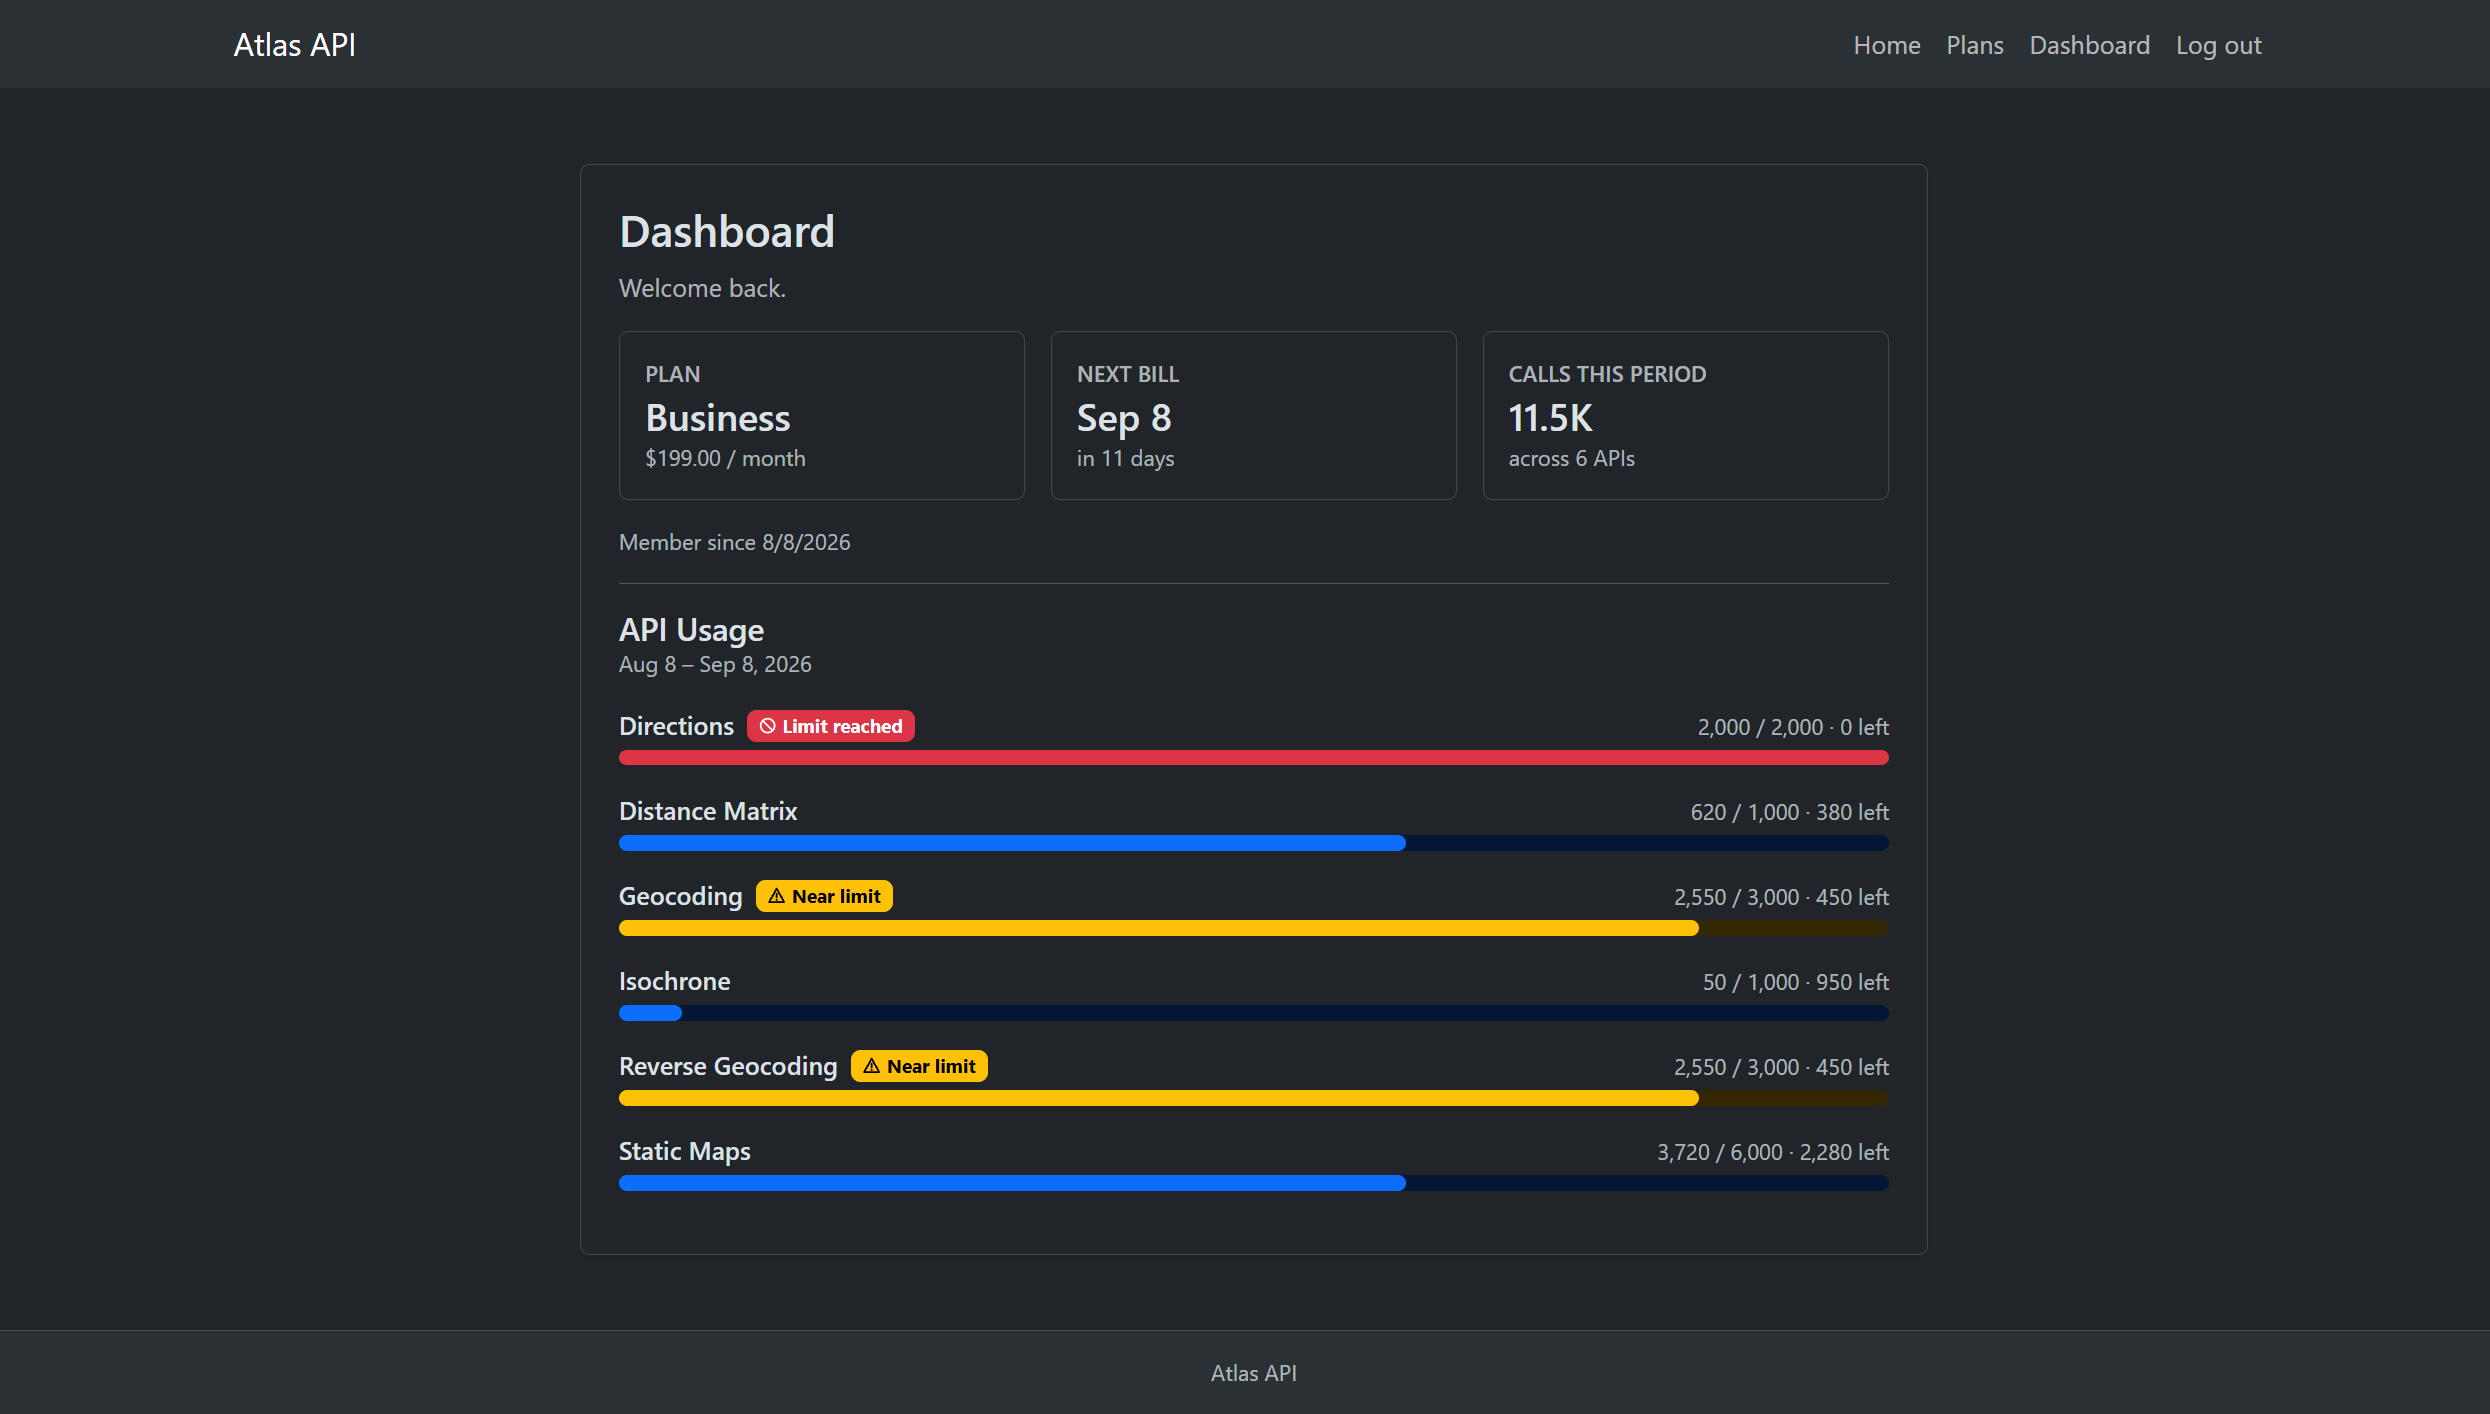
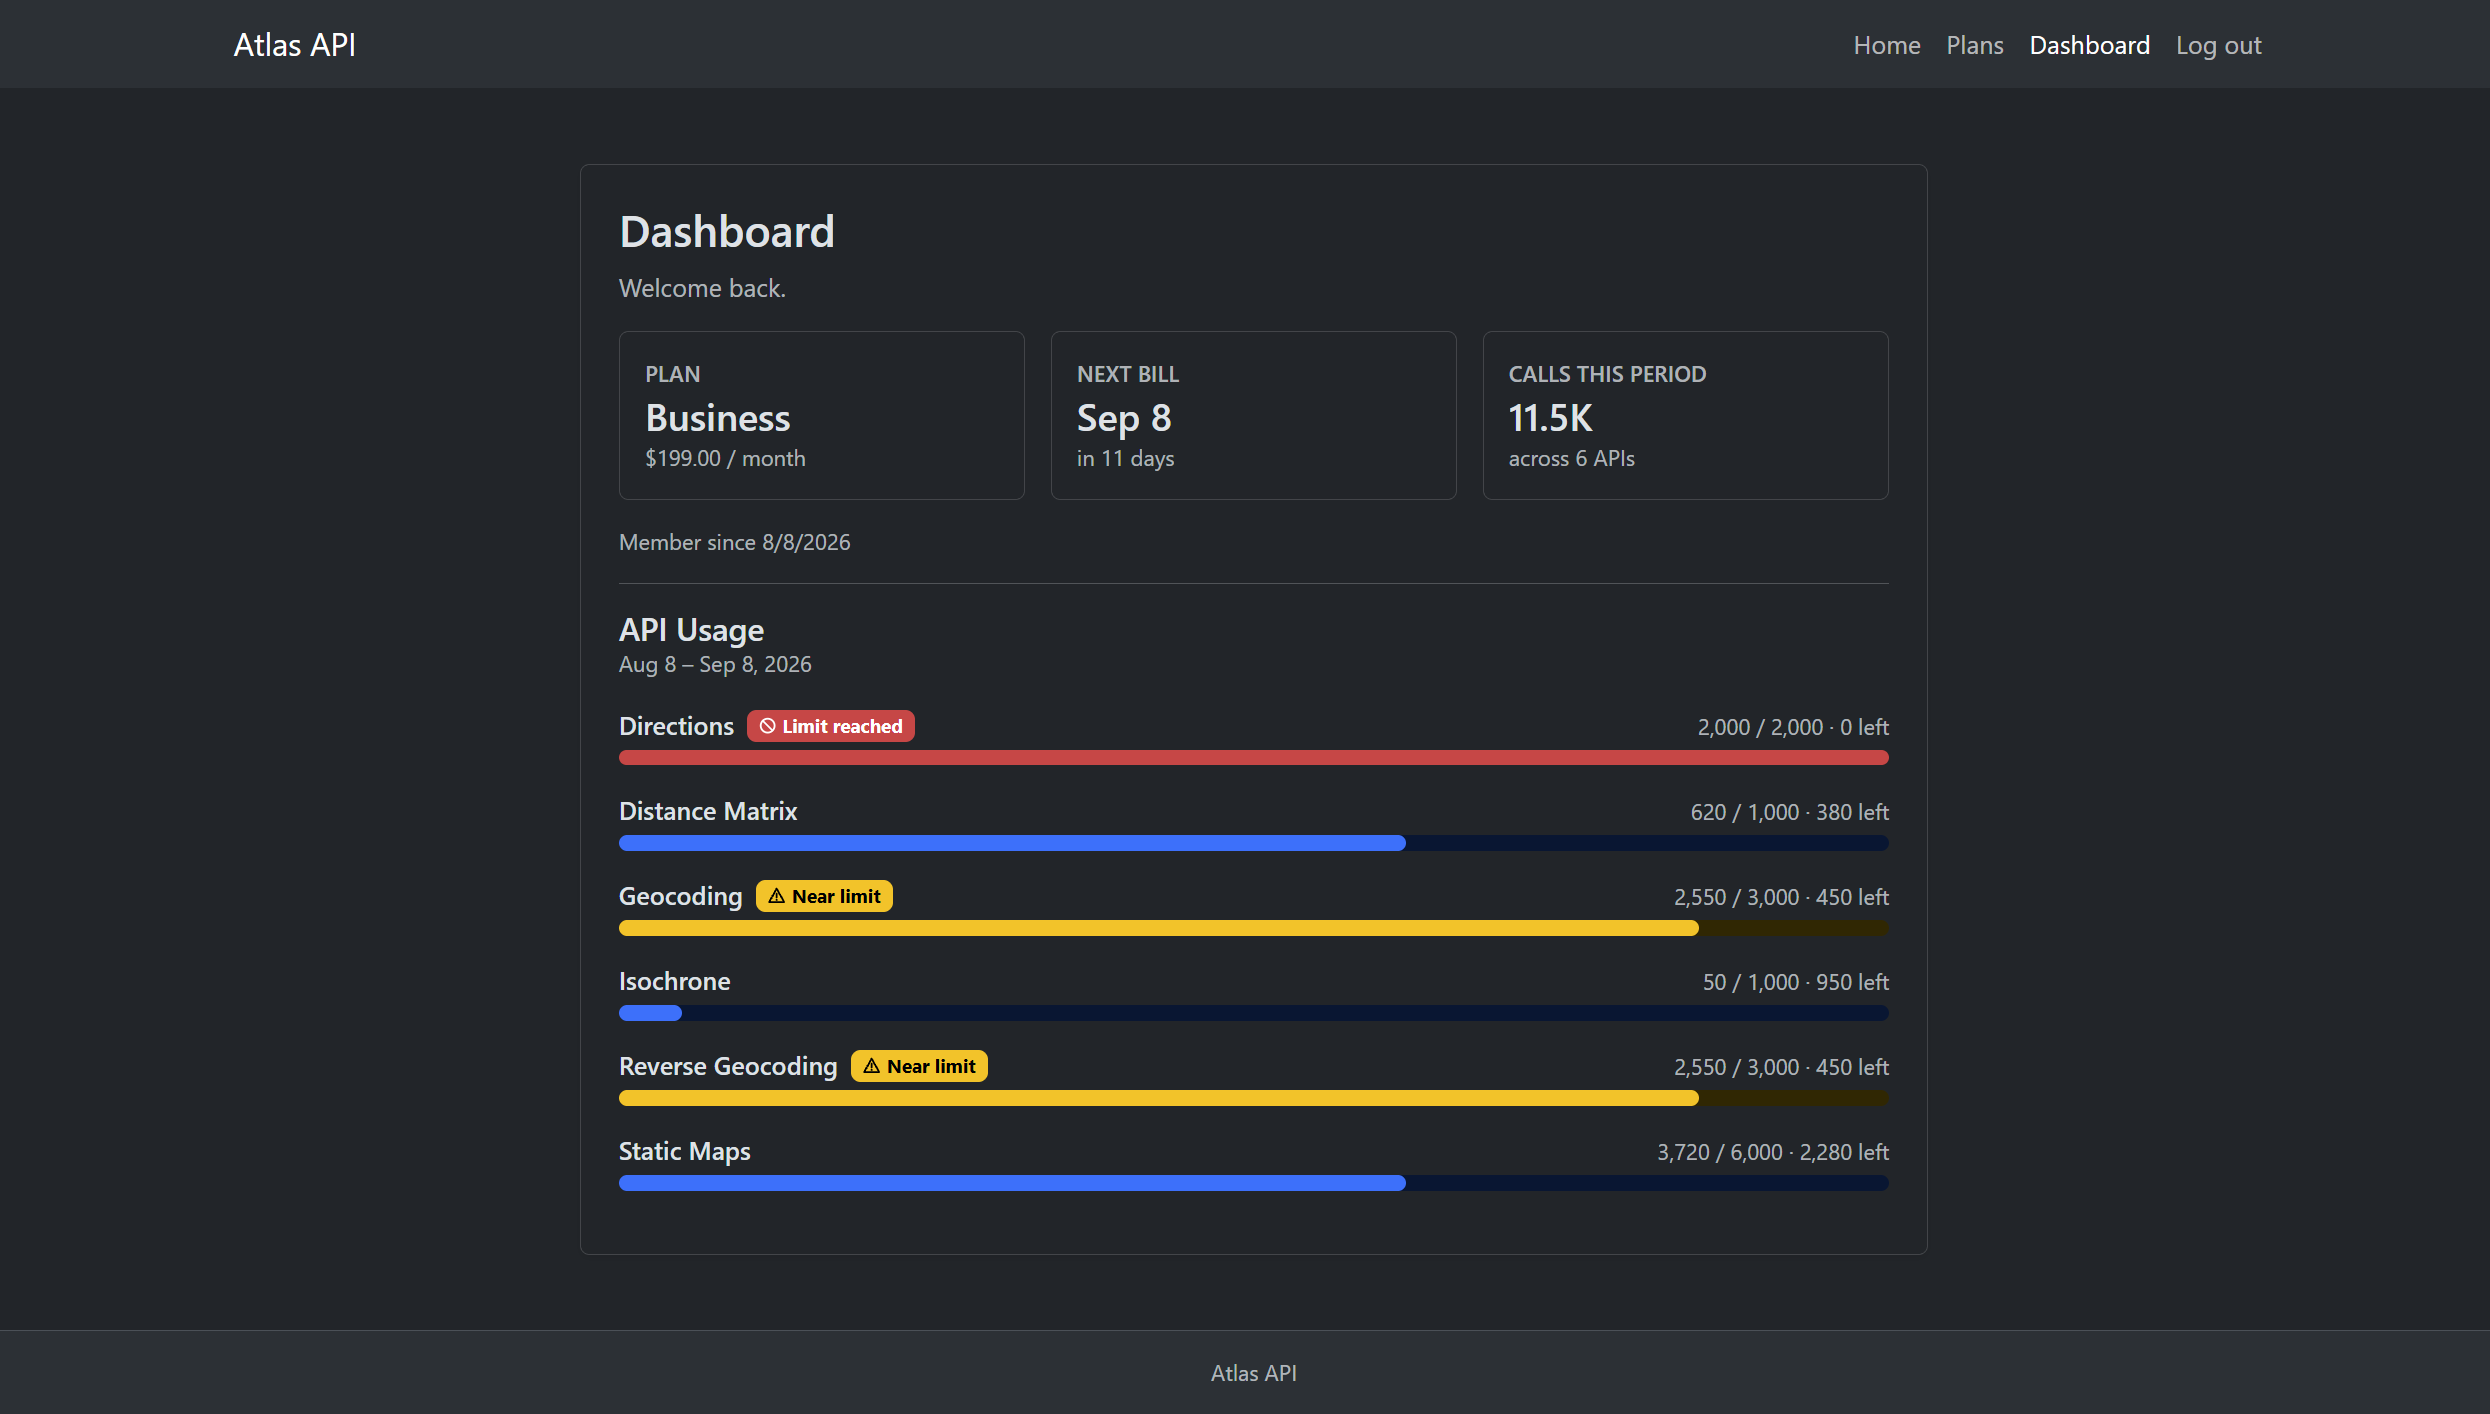
fix README.md and dashboard not using active class

Changed region(s): [[0.2474, 0.5912, 0.6803, 0.8402], [0.8349, 0.0311, 0.8659, 0.0622]]

diff --git a/src/views/dashboard.html b/src/views/dashboard.html
@@ -29,7 +29,7 @@
                         <li class="nav-item"><a class="nav-link" href="/index.html">Home</a></li>
                         <li class="nav-item"><a class="nav-link" href="/plans.html">Plans</a></li>
 
-                        <li class="nav-item" data-auth="in"><a class="nav-link" href="/dashboard">Dashboard</a></li>
+                        <li class="nav-item" data-auth="in"><a class="nav-link active" href="/dashboard">Dashboard</a></li>
                         <li class="nav-item" data-auth="in">
                             <form method="POST" action="/auth/logout">
                                 <button type="submit" class="nav-link border-0 bg-transparent">Log out</button>

diff --git a/README.md b/README.md
@@ -7,6 +7,23 @@ A billing and metering backend for a fictional geospatial API company. Users reg
 ![CI](https://github.com/raycal49/processingTest/actions/workflows/node.js.yml/badge.svg)
 ![License](https://img.shields.io/badge/license-MIT-green)
 
+<!-- Worth replacing with a GIF eventually: choosing a plan, the prorated charge,
+     landing on the dashboard with the receipt banner. A still cannot show that flow. -->
+
+<p align="center">
+  <img src="docs/dashboard.png" width="820"
+       alt="Dashboard showing current plan, next bill date, and per-API usage bars in warning and limit-reached states">
+</p>
+<p align="center">
+  <sub>Business plan, 20 days into a billing period, usage seeded across all six products.</sub>
+</p>
+
+<details>
+<summary><b>More screenshots</b></summary>
+<br>
+<img src="docs/index.png" width="820" alt="Homepage">
+</details>
+
 | Layer | Technology |
 | --- | --- |
 | Runtime | Node.js 22, ES modules |
@@ -18,14 +35,6 @@ A billing and metering backend for a fictional geospatial API company. Users reg
 | Testing | Vitest, Supertest |
 | Local infrastructure | Docker Compose |
 | CI | GitHub Actions |
-
-<!-- SCREENSHOT GOES HERE. Save it to docs/dashboard.png and this line renders it.
-     Until the file exists this shows a broken image, so delete the line below if you
-     push before taking the shot. A short GIF of choosing a plan and landing on the
-     dashboard with the receipt banner would work even better than a still. -->
-
-![Homepage](docs/index.png)
-![Dashboard](docs/dashboard.png)
 
 <!-- Once it is deployed, this line goes directly under the title, above the badges:
 
